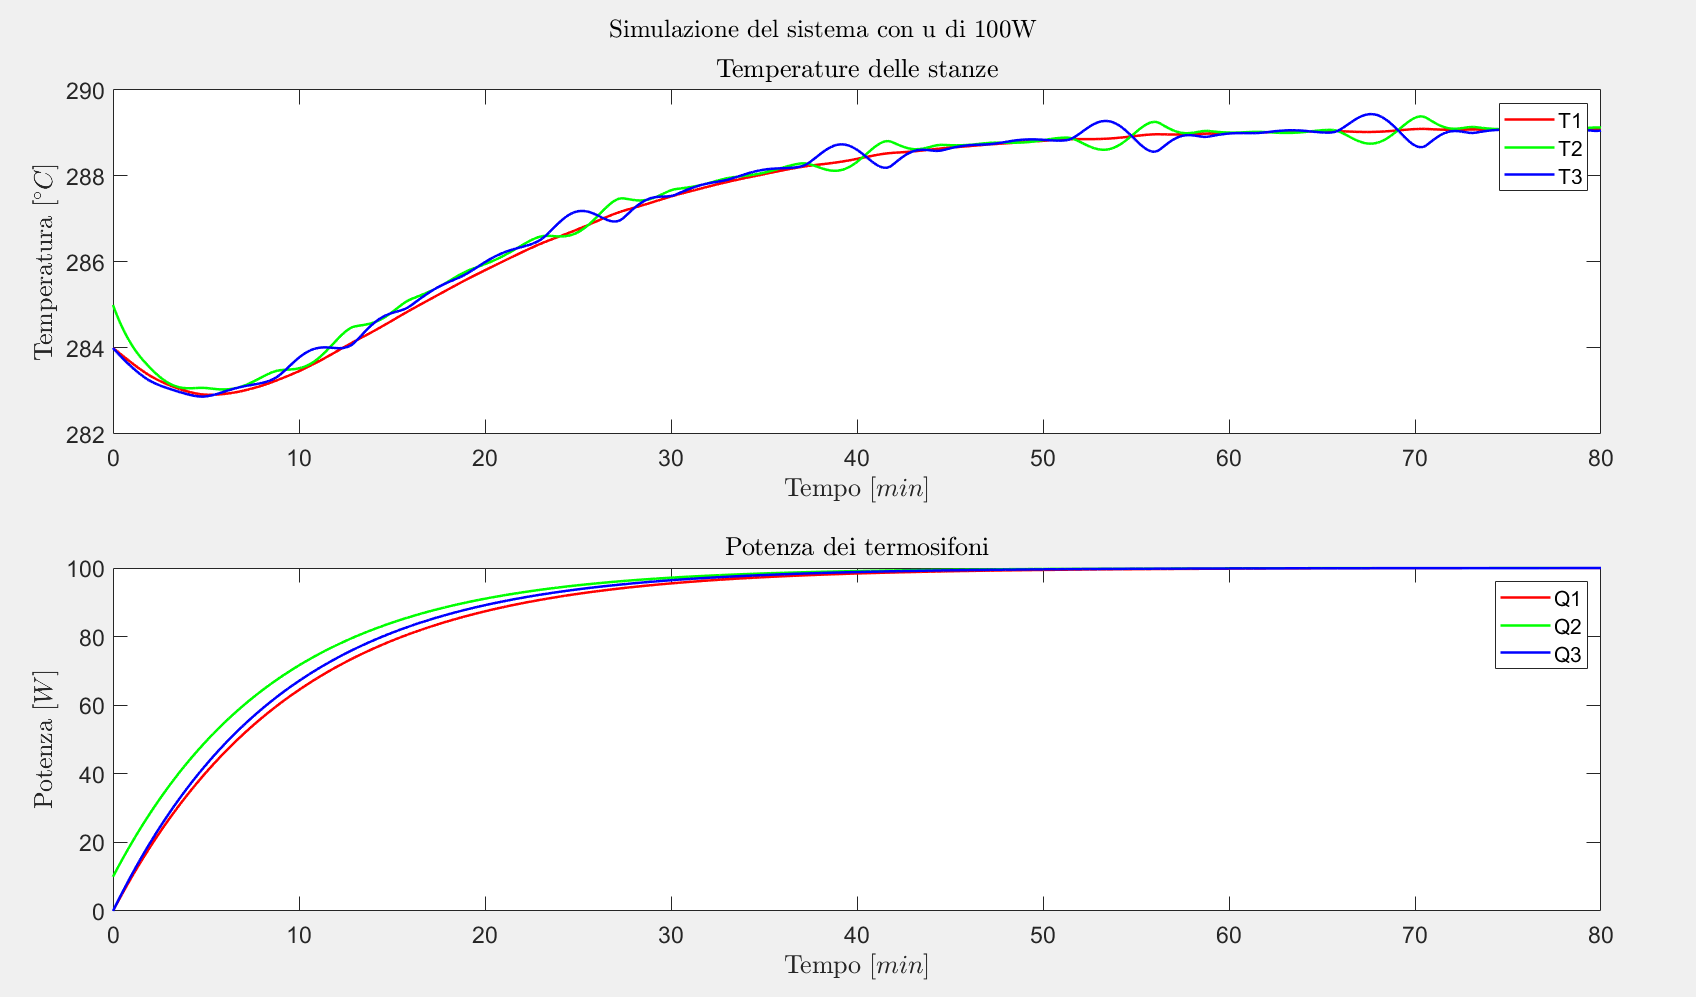
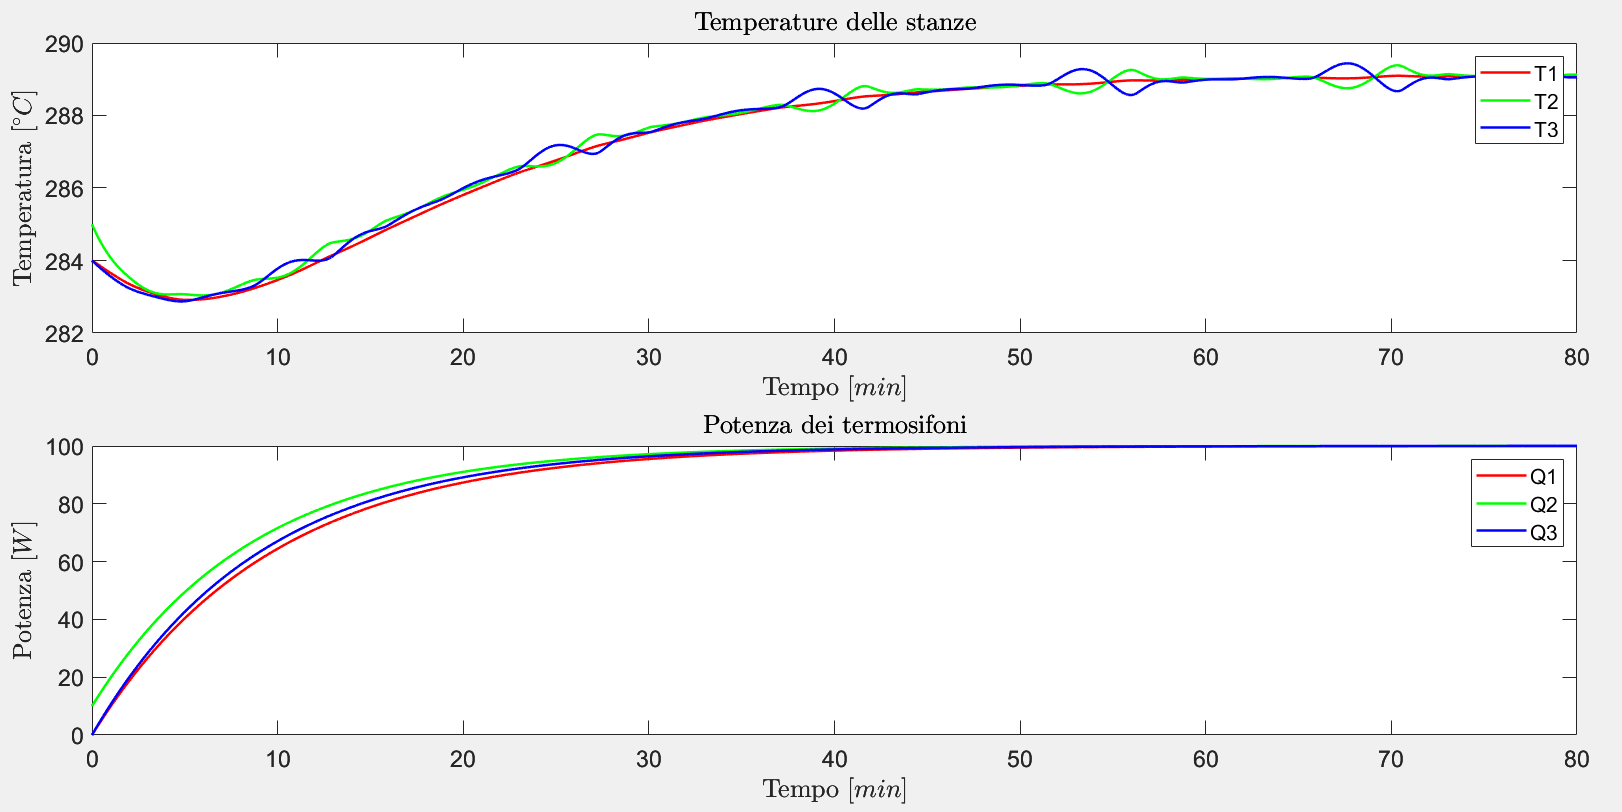
Nuovi_Grafici

diff --git a/progetto_loris/disu.m b/progetto_loris/disu.m
@@ -6,14 +6,14 @@
 clear; clc; close all
 
 %% Impostazioni dello script
-Ts = 1; % [secondi] - tempo di campionamento
+Ts = 60; % [secondi] - tempo di campionamento
 
 %% Richiamiamo lo script di inizializzazione
 inizializzazione
 
 %% Definizione delle matrici del costo quadratico
-Q = 1e3 * eye(6);   
-R = 1e1 * eye(3);     
+Q = 1.e3 * eye(6);
+R = 1e1 * eye(3);
 % S come soluzione di Riccati
 [~, S] = dlqr(sys_discreto.A, sys_discreto.B, Q, R);
 
@@ -28,7 +28,7 @@ CIS_G_Q = projection(CIS_G, 4:6);
 
 figure
 subplot(1, 2, 1)
-CIS_G_T.plot('Color', [0.2, 0.6, 0.8]); % Colore blu elegante invece del rosso
+CIS_G_T.plot();
 title("Proiezione del CIS delle temperature nelle stanze")
 limitiTemp = [X_v_lin(7), X_v_lin(1)];
 xlim(limitiTemp); ylim(limitiTemp); zlim(limitiTemp);
@@ -37,7 +37,7 @@ ylabel("T2 $[^{\circ}C]$", "Interpreter", "latex")
 zlabel("T3 $[^{\circ}C]$", "Interpreter", "latex")
 
 subplot(1, 2, 2)
-CIS_G_Q.plot('Color', [0.2, 0.6, 0.8]); % Colore blu elegante invece del rosso
+CIS_G_Q.plot();
 title("Proiezione del CIS della potenza termica dei termosifoni")
 limitiQ = [X_v_lin(10), X_v_lin(4)];
 xlim(limitiQ); ylim(limitiQ); zlim(limitiQ);
@@ -48,7 +48,7 @@ zlabel("Q3 $[W]$", "Interpreter", "latex")
 %% N-step controllable set
 x0_centrato = [284; 285; 284; 0; 10; 0] - x_ref(1:6);
 
-%[Np_steps_H, Np_steps_h, Np] = CS(Hx, hx, Hu, hu, G, g, sys_discreto.A, sys_discreto.B, x0_centrato);
+% [Np_steps_H, Np_steps_h, Np] = CS(Hx, hx, Hu, hu, G, g, sys_discreto.A, sys_discreto.B, x0_centrato);
 Np = 10;
 Np_steps_H = G;
 Np_steps_h = g;
@@ -65,57 +65,27 @@ Np_steps_Q = projection(Np_step, 4:6);
 
 figure
 subplot(1, 2, 1)
-h1 = Np_steps_T.plot('Color', [0.2, 0.6, 0.8]); % Colore blu elegante
-alpha(h1, 0.3); % Imposta trasparenza
+Np_steps_T.plot();
 title("Temperature nelle stanze")
 xlim(limitiTemp); ylim(limitiTemp); zlim(limitiTemp);
 hold on
-% Punto di partenza
-plot3(x0_centrato(1), x0_centrato(2), x0_centrato(3), '.', 'MarkerSize', 50, 'Color', 'r', 'DisplayName', 'Start Point')
-% Traiettoria simulata (se disponibile)
-if exist('hxx', 'var') && ~isempty(hxx)
-    % Plot della traiettoria delle temperature
-    traj_temp = hxx(1:3, :) - x_ref(1:3);
-    plot3(traj_temp(1, :), traj_temp(2, :), traj_temp(3, :), 'k-', 'LineWidth', 2, 'DisplayName', 'Traiettoria simulata')
-    % Punto finale
-    plot3(traj_temp(1, end), traj_temp(2, end), traj_temp(3, end), 'go', 'MarkerSize', 15, 'MarkerFaceColor', 'g', 'DisplayName', 'Punto finale')
-end
+plot3(x0_centrato(1), x0_centrato(2), x0_centrato(3), '.', 'MarkerSize', 50, 'Color', 'r')
 xlabel("T1 $[^{\circ}C]$", "Interpreter", "latex")
 ylabel("T2 $[^{\circ}C]$", "Interpreter", "latex")
 zlabel("T3 $[^{\circ}C]$", "Interpreter", "latex")
-% Legenda personalizzata per evitare "data1"
-legend_entries = {'N-Steps', 'Start Point'};
-if exist('hxx', 'var') && ~isempty(hxx)
-    legend_entries = [legend_entries, {'Traiettoria simulata', 'Punto finale'}];
-end
-legend(legend_entries, 'Location', 'northeast', 'FontSize', 10)
+legend("N-steps controllable set", "Punto di partenza", "Location", "best")
 hold off
 
 subplot(1, 2, 2)
-h2 = Np_steps_Q.plot('Color', [0.2, 0.6, 0.8]); % Colore blu elegante
-alpha(h2, 0.3); % Imposta trasparenza
+Np_steps_Q.plot();
 title("Potenza termica dei termosifoni")
 xlim(limitiQ); ylim(limitiQ); zlim(limitiQ);
 hold on
-% Punto di partenza
-plot3(x0_centrato(4), x0_centrato(5), x0_centrato(6), '.', 'MarkerSize', 50, 'Color', 'r', 'DisplayName', 'Start Point')
-% Traiettoria simulata (se disponibile)
-if exist('hxx', 'var') && ~isempty(hxx)
-    % Plot della traiettoria delle potenze
-    traj_pot = hxx(4:6, :) - x_ref(4:6);
-    plot3(traj_pot(1, :), traj_pot(2, :), traj_pot(3, :), 'k-', 'LineWidth', 2, 'DisplayName', 'Traiettoria simulata')
-    % Punto finale
-    plot3(traj_pot(1, end), traj_pot(2, end), traj_pot(3, end), 'go', 'MarkerSize', 15, 'MarkerFaceColor', 'g', 'DisplayName', 'Punto finale')
-end
+plot3(x0_centrato(4), x0_centrato(5), x0_centrato(6), '.', 'MarkerSize', 50, 'Color', 'r')
 xlabel("Q1 $[W]$", "Interpreter", "latex")
 ylabel("Q2 $[W]$", "Interpreter", "latex")
 zlabel("Q3 $[W]$", "Interpreter", "latex")
-% Legenda personalizzata per evitare "data1"
-legend_entries = {'N-Steps', 'Start Point'};
-if exist('hxx', 'var') && ~isempty(hxx)
-    legend_entries = [legend_entries, {'Traiettoria simulata', 'Punto finale'}];
-end
-legend(legend_entries, 'Location', 'northeast', 'FontSize', 10)
+legend("N-steps controllable set", "Punto di partenza", "Location", "best")
 hold off
 
 %% Simulazione a tempo continuo con MPC
@@ -141,7 +111,7 @@ for i = 1:n_sim
         x_run = hxx(: , end)-x_ref(1:6);
     end
 
-    [controlAction , flag(i)]= MPC(x_run , A_cal , A_cal_n , B_cal , B_cal_n,  Q_cal , R_cal , Np, G,g, X_v_lin, U_v_lin);
+    [controlAction , flag(i)]= MPCc(x_run , A_cal , A_cal_n , B_cal , B_cal_n,  Q_cal , R_cal , Np, G,g, X_v_lin, U_v_lin);
     tempo = linspace(Ts*(i-1), Ts*i , Ts);
     controlAction = controlAction(1:3) + [100; 100; 100];
     u_online = [u_online,repmat(controlAction , 1 , Ts)];
@@ -171,7 +141,7 @@ plot(tempo, hxx(1, :), 'r');  % rosso per T1
 hold on;
 plot(tempo, hxx(2, :), 'g');  % verde per T2
 plot(tempo, hxx(3, :), 'b');  % blu per T3
-yline(x_ref(1), 'Color', 'k', 'LineWidth', 0.5, 'Label', 'Obiettivo');  % nero per obiettivo, linea molto sottile
+yline(x_ref(1), 'Color', 'k', 'LineWidth', 2, 'Label', 'Obiettivo');  % nero per obiettivo
 grid on;
 legend(["T1 - Stanza 1", "T2 - Stanza 2", "T3 - Stanza 3", "Obiettivo"], ...
        'Location', 'best', 'FontSize', 11, 'FontWeight', 'bold');
@@ -188,7 +158,7 @@ plot(tempo, hxx(4, :), 'r');  % rosso per Q1
 hold on;
 plot(tempo, hxx(5, :), 'g');  % verde per Q2
 plot(tempo, hxx(6, :), 'b');  % blu per Q3
-yline(x_ref(4), 'Color', 'k', 'LineWidth', 0.5, 'Label', 'Obiettivo');  % nero per obiettivo, linea molto sottile
+yline(x_ref(4), 'Color', 'k', 'LineWidth', 2, 'Label', 'Obiettivo');  % nero per obiettivo
 grid on;
 legend(["Q1 - Termosifone 1", "Q2 - Termosifone 2", "Q3 - Termosifone 3", "Obiettivo"], ...
        'Location', 'best', 'FontSize', 11, 'FontWeight', 'bold');
@@ -223,78 +193,3 @@ box on;
 set(0, 'DefaultLineLineWidth', 'remove');
 set(0, 'DefaultAxesFontSize', 'remove');
 set(0, 'DefaultAxesFontWeight', 'remove');
-
-
-%------------------------------------------------------------------
-%grafico in più
-
-
-% % Traslazione del CIS e del set N-step nelle coordinate originali
-% CIS_shifted = CIS_G + x_ref;  % x_ref è [289;289;289;100;100;100]
-% Np_step_set_shifted = Polyhedron(Np_steps_H, Np_steps_h) + x_ref;
-% 
-% % Proiezioni sui soli stati T1, T2, T3 (coordinate 1, 2, 3)
-% cis_temp = projection(CIS_shifted, [1 2 3]);
-% Np_step_temp = projection(Np_step_set_shifted, [1 2 3]);
-% 
-% figure
-% h_npstep = Np_step_temp.plot('Alpha', 0.05, 'LineWidth', 2, 'EdgeColor', 'blue');
-% hold on
-% h_cis = cis_temp.plot('Alpha', 0.1, 'EdgeColor', 'black');
-% h_traj = plot3(x_log(1, :), x_log(2, :), x_log(3, :), 'Color', [0 0 0.5]);
-% h_dots = scatter3(x_log(1,:), x_log(2,:), x_log(3,:), 30, 'cyan', 'filled');
-% 
-% title('Traiettoria del sistema termico')
-% xlabel('$T_1$ [$^\circ$C]', 'Interpreter', 'latex')
-% ylabel('$T_2$ [$^\circ$C]', 'Interpreter', 'latex')
-% zlabel('$T_3$ [$^\circ$C]', 'Interpreter', 'latex')
-% 
-% legend([h_cis, h_npstep, h_traj, h_dots], ...
-%     {'CIS', sprintf('%d-step set', N), 'Traiettoria', 'Campioni'}, ...
-%     'Interpreter','latex')
-% 
-% grid on
-% view(3)
-
-%% 4. Plot dei risultati - Impianto termico
-
-% Traslazione del CIS e dell'N-step set nelle coordinate originali
-CIS_shifted = CIS_G + x_ref(1:6);
-Np_step_set_shifted = Np_step + x_ref(1:6);
-
-% Proiezioni (temperature e potenze)
-CIS_T = projection(CIS_shifted, 1:3);
-CIS_Q = projection(CIS_shifted, 4:6);
-Np_T  = projection(Np_step_set_shifted, 1:3);
-Np_Q  = projection(Np_step_set_shifted, 4:6);
-
-% Traiettorie dalle simulazioni
-traj_T = hxx(1:3, :) - x_ref(1:3);   % traiettoria temperature
-traj_Q = hxx(4:6, :) - x_ref(4:6);   % traiettoria potenze
-
-% --- Plot Temperature ---
-figure
-subplot(1,2,1)
-h_nps_T = Np_T.plot('Alpha', 0.1, 'Color',[0.2,0.6,0.8]);
-hold on
-h_cis_T = CIS_T.plot('Color',[0.9,0.3,0.3]);
-plot3(traj_T(1,:), traj_T(2,:), traj_T(3,:), 'k-', 'LineWidth', 2);
-scatter3(traj_T(1,:), traj_T(2,:), traj_T(3,:), 20, 'cyan', 'filled');
-title('Traiettoria delle temperature')
-xlabel('$T_1$ [$^{\circ}C$]', 'Interpreter','latex')
-ylabel('$T_2$ [$^{\circ}C$]', 'Interpreter','latex')
-zlabel('$T_3$ [$^{\circ}C$]', 'Interpreter','latex')
-legend([h_cis_T, h_nps_T], {'CIS', sprintf('%d-step set', Np)}, 'Location','best')
-
-% --- Plot Potenze ---
-subplot(1,2,2)
-h_nps_Q = Np_Q.plot('Alpha', 0.1, 'Color',[0.2,0.6,0.8]);
-hold on
-h_cis_Q = CIS_Q.plot('Color',[0.9,0.3,0.3]);
-plot3(traj_Q(1,:), traj_Q(2,:), traj_Q(3,:), 'k-', 'LineWidth', 2);
-scatter3(traj_Q(1,:), traj_Q(2,:), traj_Q(3,:), 20, 'cyan', 'filled');
-title('Traiettoria delle potenze termiche')
-xlabel('$Q_1$ [W]', 'Interpreter','latex')
-ylabel('$Q_2$ [W]', 'Interpreter','latex')
-zlabel('$Q_3$ [W]', 'Interpreter','latex')
-legend([h_cis_Q, h_nps_Q], {'CIS', sprintf('%d-step set', Np)}, 'Location','best')

diff --git a/progetto_loris/inizializzazione.m b/progetto_loris/inizializzazione.m
@@ -45,7 +45,7 @@ x_start=[T1 T2 T3 Q1 Q2 Q3]';
 x_ref=[289 289 289 100 100 100]';
 u_ref=[100 100 100]';       
 
-%% 1.ODE SISTEMA
+%% 1.SIMULAZIONE DEL SISTEMA
 dxdt = @(t,x) CasaEsterno(t, x, k, C, tau, T_ext, k_ext, u_ref);
 
 simulazione = 80 * 60;
@@ -57,7 +57,7 @@ hold on
 
 tt = tt/60;
 
-sgtitle("Simulazione del sistema con u di 100W") 
+
 
 subplot(2,1,1)
 plot(tt, xx(:,1), 'r', ...    % rosso per T1
@@ -98,8 +98,8 @@ f4 = (Q1r - Q1) / tau(1);
 f5 = (Q2r - Q2) / tau(2);
 f6 = (Q3r - Q3) / tau(3);
 
-F = [f1; f2; f3; f4; f5; f6];
-X = [T1 T2 T3 Q1 Q2 Q3];
+F = [f1; f2; f3; f4; f5; f6]; %Equazioni dinamiche + dinamica termosifoni
+X = [T1 T2 T3 Q1 Q2 Q3];      %Valori dalla tabella condizioni iniziali
 U = [Q1r Q2r Q3r];
 
 A_sym(X) = jacobian(F, X);      % derivata di F rispetto agli stati

diff --git a/progetto_loris/CS.m b/progetto_loris/CS.m
@@ -50,5 +50,4 @@ function [H_nsteps, h_nsteps , Np] = CS(Hx, hx, Hu, hu, G, g, A, B, point)
     H_nsteps = temp.A;
     h_nsteps = temp.b;
     
-    
 end
